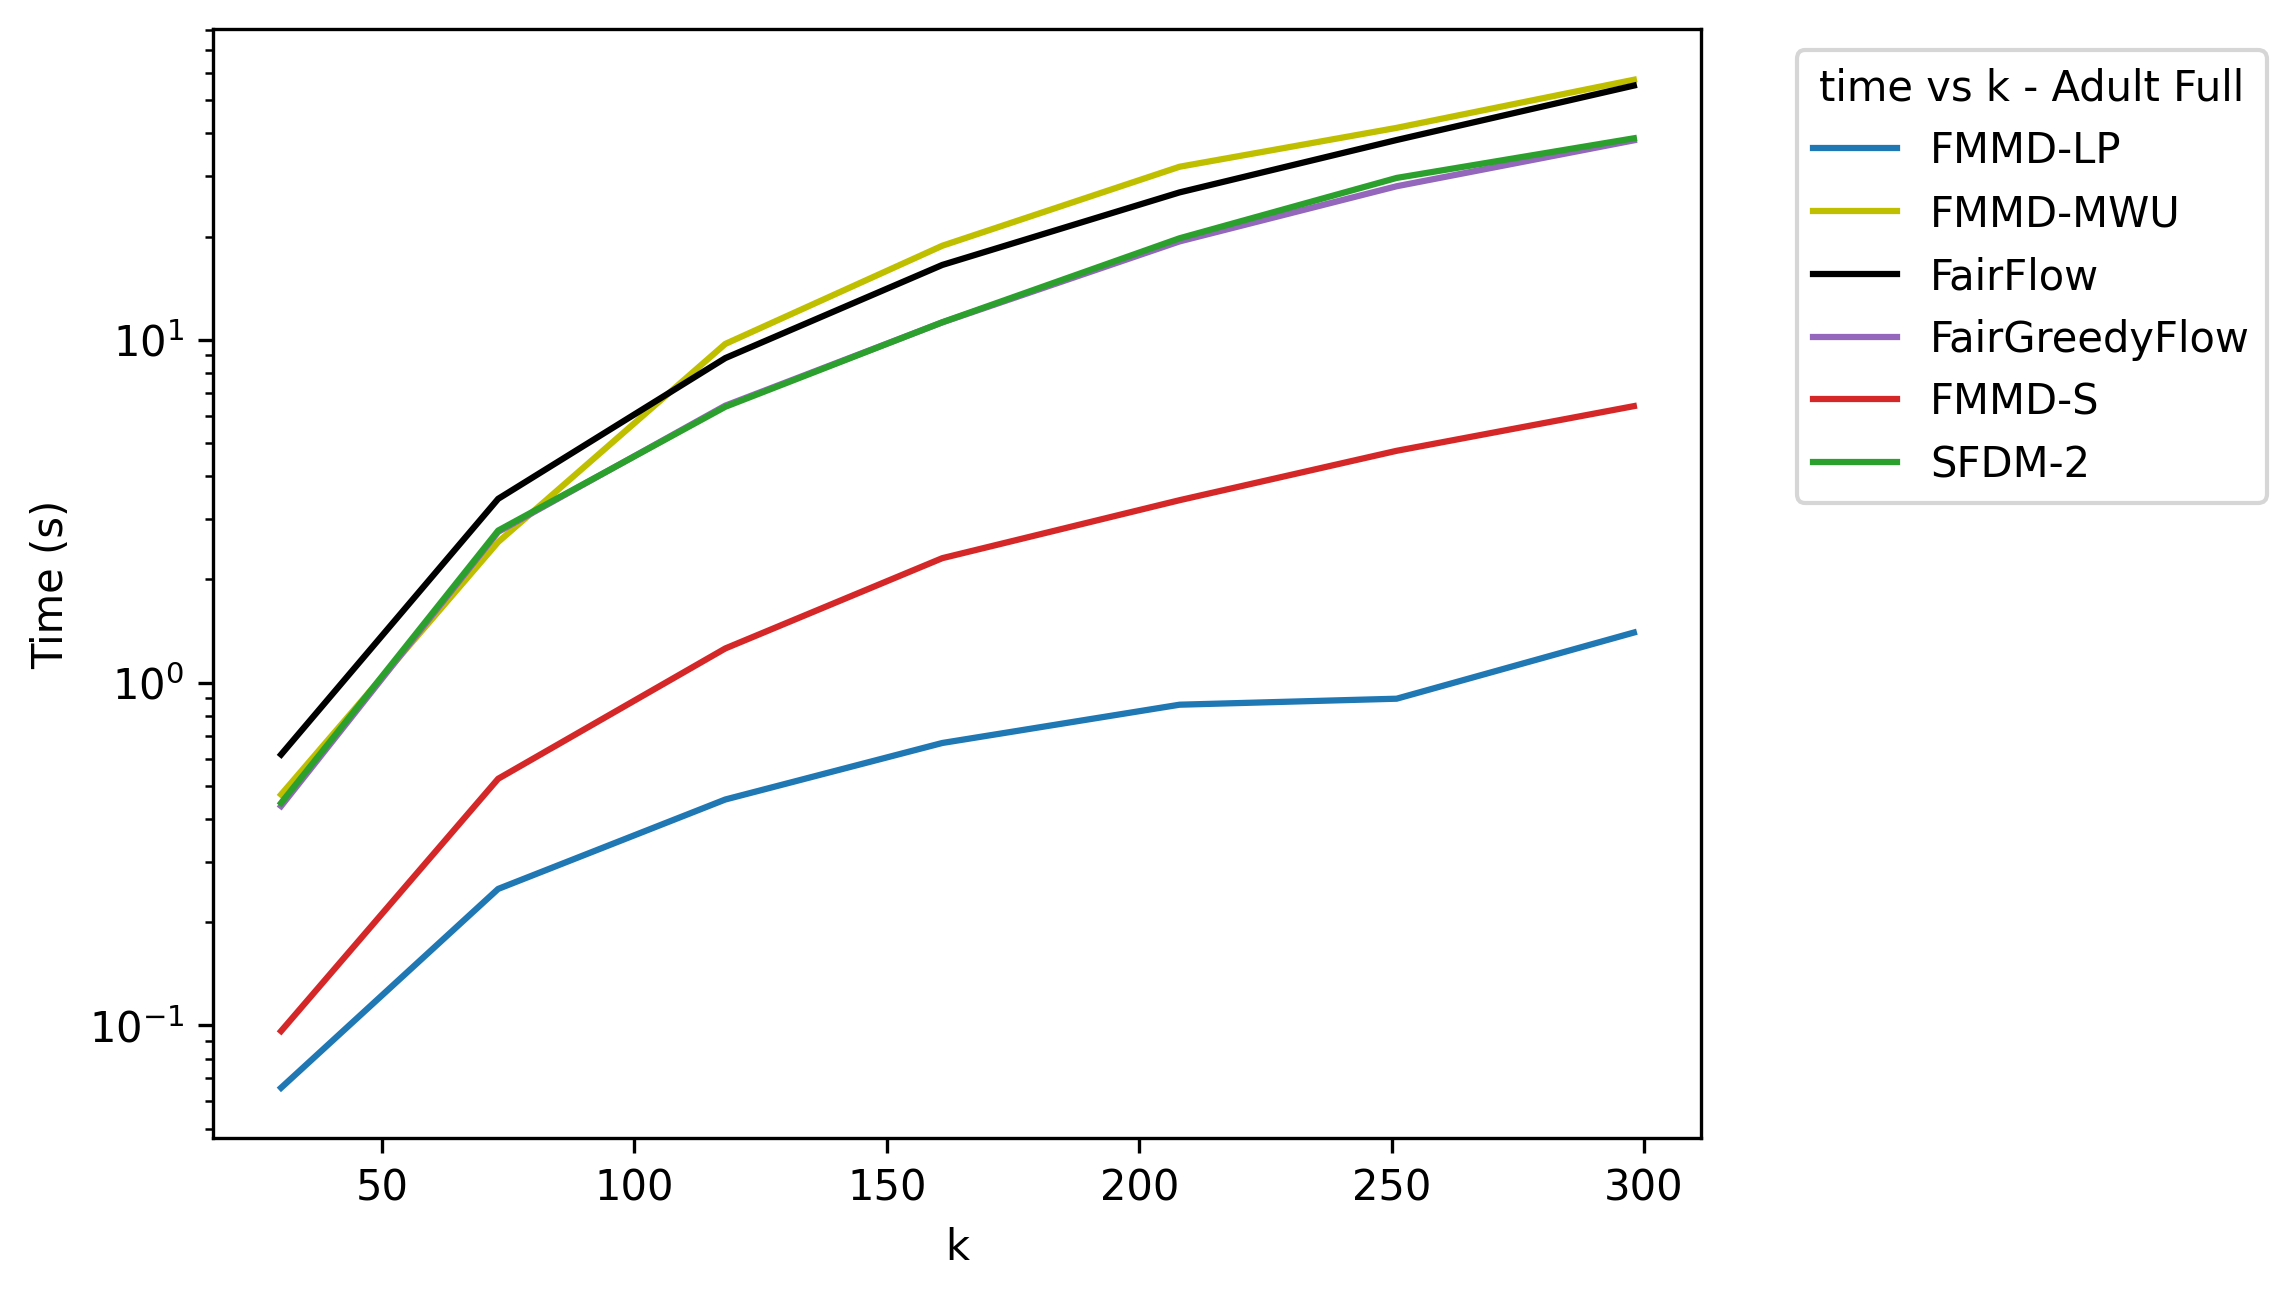
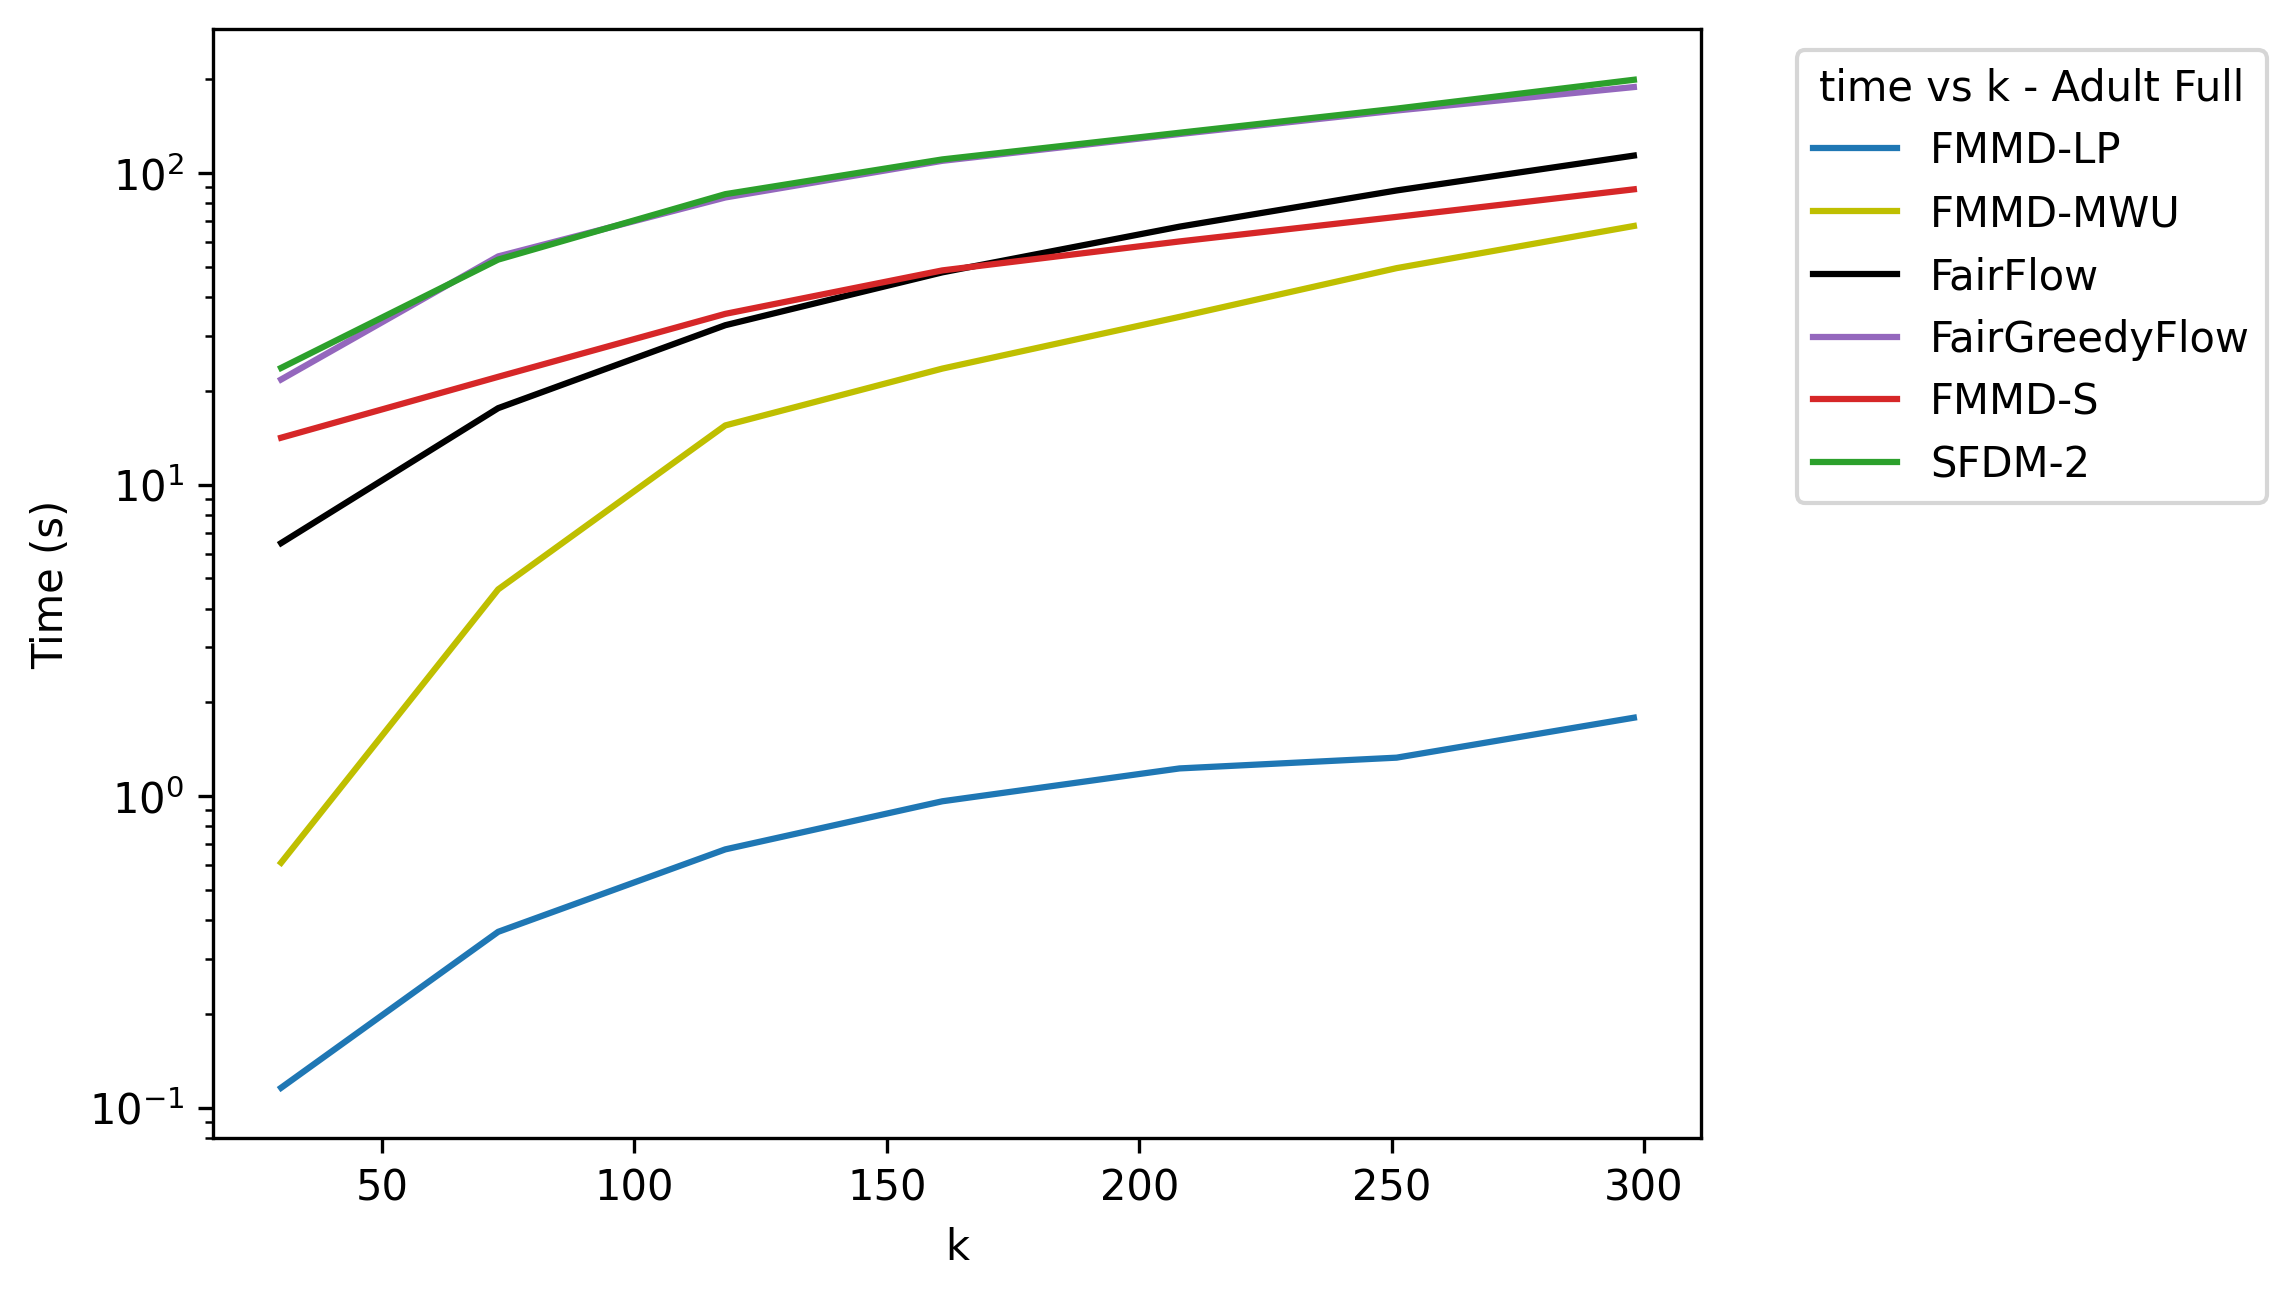
no coreset for fdm and comparison framework

diff --git a/compare_algs_v2.py b/compare_algs_v2.py
@@ -1,0 +1,103 @@
+
+import json
+import utils
+import typing
+import typing as t
+import sys
+import numpy as np
+import numpy.typing as npt
+from collections import defaultdict
+import matplotlib.pyplot as plt
+
+import fdmalgs
+import utils
+import lpsolve
+import multweights_nyoom as multweights
+from coreset import Coreset_FMM
+
+class Dataset:
+
+    def __init__(self, datainfopath: str):
+        """
+        Constructs the dataset object that has the dataset loaded in it.
+        :param datainfopath: path to the dataset files.
+        """
+        self.features = None
+        self.colors = None
+
+        
+        # Read dataset info file
+        with open(datainfopath) as f:
+            datainfo = json.load(f)
+        
+        self.allFields = datainfo['allFields']
+        self.colorFields = datainfo['colorFields']
+        self.featureFields = datainfo['featureFields']
+        self.dim = len(self.featureFields)
+        self.datapath = datainfopath.split('/')[:-1].join('/') + '/' + datainfo['filename']
+
+        # Read the dataset
+        self.colors, self.features = self.read_CSV(self.datapath, self.allFields, self.colorFields, '_', self.featureFields)
+        assert (len(self.colors) == len(self.features))
+        
+    
+    def read_CSV(filename: t.AnyStr, field_names: t.Sequence, color_fields: t.List[t.AnyStr], color_sep: t.AnyStr, feature_fields: t.Set[t.AnyStr]) -> (
+        npt.NDArray[t.AnyStr], npt.NDArray[np.float64]):
+        """read_CSV.
+
+        Reads in a CSV datafile as a list of dictionaries.
+        The datafile should have no header row
+
+        Returns a tuple of the colors of elements and their features
+
+        :param filename: the file to read in
+        :type filename: t.AnyStr
+        :param field_names: the headers of the CSV file, in order
+        :type field_names: t.Sequence
+        :param color_fields: the fields containing the object color; the end "color" will be a tuple of all the colors
+        :type color_fields: t.Set[t.AnyStr]
+        :param color_sep: Separator for joining together multiple color fields
+        :type color_sep: t.AnyStr
+        :param feature_fields: the fields which are numerical data values for the point
+        :type feature_fields: t.Set[t.AnyStr]
+        """
+        from csv import DictReader
+
+        # read csv as a dict with given keys
+        reader = DictReader(open(filename), fieldnames=field_names)
+
+        # return the requested features and colors
+        colors = []
+        features = []
+
+        for row in reader:
+            # this will become a row per color
+            color_list = [row[color_field].strip() for color_field in color_fields]
+            colors.append(color_sep.join(color_list))
+            features.append([float(row[field]) for field in feature_fields])
+
+        # we want these as np arrays
+        colors = np.array(colors)
+        features = np.array(features, dtype=np.float64)
+
+        return colors, features
+
+class Runner:
+    def __init__(self, settingfilepath: str, dataset):
+            """
+            Compares algorithms
+            :param datainfopath: path to the dataset files.
+            """
+            self.features = None
+            self.colors = None
+
+            
+            # Read dataset info file
+            with open(settingfilepath) as f:
+                setting = json.load(f)
+
+if __name__ == "__main__":
+
+    d = Dataset("./datasets/ads/dataset.json")
+
+

diff --git a/compare_algs.py b/compare_algs.py
@@ -6,6 +6,7 @@ import utils
 import lpsolve
 import multweights_nyoom as multweights
 from coreset import Coreset_FMM
+import time
 
 import numpy as np
 def color(alg_name):
@@ -148,6 +149,8 @@ if __name__ == '__main__':
 
         d = len(feature_fields)
         m = len(color_names)
+        coreset_time = 0
+
         coreset = Coreset_FMM(features, colors, k, m, d, coreset_size)
         # can't overwrite our original dataset
         core_features, core_colors = coreset.compute()
@@ -167,17 +170,25 @@ if __name__ == '__main__':
             rep_div_avg = 0
             calc_div_avg = 0
             time_avg = 0
-            num_runs = 10
+            num_runs = 1
             for i in range(0, num_runs):
-                sol, div, time = runner(core_features, core_colors, kis, upper_gamma)
-                rep_div_avg += div
-                calc_div_avg += utils.compute_maxmin_diversity(core_features[sol])
-                time_avg += time
+                if alg == 'FMMD-MWU' or alg == 'FMMD-LP':
+                    sol, div, algtime = runner(core_features, core_colors, kis, upper_gamma)
+                    algtime = algtime + coreset.coreset_compute_time
+                    print(f'coreset compute time: {coreset.coreset_compute_time}')
+                    rep_div_avg += div
+                    # calc_div_avg += utils.compute_maxmin_diversity(core_features[sol])
+                    time_avg += algtime
+                else:
+                    sol, div, algtime = runner(features, colors, kis, upper_gamma)
+                    rep_div_avg += div
+                    # calc_div_avg += utils.compute_maxmin_diversity(core_features[sol])
+                    time_avg += algtime
             rep_div_avg = rep_div_avg/num_runs
-            calc_div_avg = calc_div_avg/num_runs
+            # calc_div_avg = calc_div_avg/num_runs
             time_avg = time_avg/num_runs
-            print(f'{alg} finished in {time}! (diversity of {rep_div_avg}, calculated diversity of {calc_div_avg})')
-
+            print(f'{alg} finished in {time_avg}! (diversity of {rep_div_avg}, calculated diversity of {calc_div_avg})')
+            
             results[alg].append((k_rounded, rep_div_avg, calc_div_avg, time_avg))
 
 
@@ -229,16 +240,16 @@ if __name__ == '__main__':
     plt.close()
 
     # Plot the graph calculated d vs k 
-    plt.clf()
-    for alg in data_per_alg_rd_vs_k:
-        plt.plot(data_per_alg_rd_vs_k[alg]["x"], data_per_alg_rd_vs_k[alg]["y"], color(alg), label=alg)
+    # plt.clf()
+    # for alg in data_per_alg_rd_vs_k:
+    #     plt.plot(data_per_alg_rd_vs_k[alg]["x"], data_per_alg_rd_vs_k[alg]["y"], color(alg), label=alg)
     
-    # plt.yscale("log")
-    plt.legend(title = "d(calcuated) vs k - Adult Full", bbox_to_anchor=(1.05, 1.0), loc='upper left')
-    plt.xlabel("k")
-    plt.ylabel("d")
-    plt.savefig("d_calcualted_vs_k_adult_full", dpi=300, bbox_inches='tight')
+    # # plt.yscale("log")
+    # plt.legend(title = "d(calcuated) vs k - Adult Full", bbox_to_anchor=(1.05, 1.0), loc='upper left')
+    # plt.xlabel("k")
+    # plt.ylabel("d")
+    # plt.savefig("d_calcualted_vs_k_adult_full", dpi=300, bbox_inches='tight')
 
-    plt.close()
+    # plt.close()
 
 

diff --git a/settings/gen.py b/settings/gen.py
@@ -1,0 +1,52 @@
+import json
+
+dictionary = {
+    
+    "setup" : {
+
+        # k goes from 25 to 351 at increments of 50
+        "k" : [25, 351, 50],
+
+        # Size of the coreset is this times k
+        "coreset_size_factor" : 10,
+
+        # number of runs for each algorithm
+        "num_runs": 1
+    },
+    
+    # Algorithms to run with the above setup
+    "algorithms" : {
+
+        # use_precomputed_coreset
+        # 1 -> Yes
+        # 0 -> No
+        # 2 -> Both
+
+
+        "FFMD_LP" : {
+            "use_precomputed_coreset" : 1
+        },
+        "FMMD_MWU" : {
+            "use_precomputed_coreset" : 1
+        },
+        "FairFlow": {
+            "use_precomputed_coreset" : 0
+        },
+        "FairGreedyFlow":{
+            "use_precomputed_coreset" : 0
+        },
+        "FMMD-S":{
+            "use_precomputed_coreset" : 0
+        },
+        "SFDM-2":{
+            "use_precomputed_coreset" : 0
+        }
+    },
+}
+
+# Serializing json
+json_object = json.dumps(dictionary, indent=8)
+ 
+# Writing to sample.json
+with open("dataset.json", "w") as outfile:
+    outfile.write(json_object)

diff --git a/datasets/ads/gen.py b/datasets/ads/gen.py
@@ -1,0 +1,47 @@
+import json
+
+dictionary = {
+
+    "filename" : "adult.data",
+    
+    # Note that these need to be listed in order to what they are in the dataset file
+    "allFields" : [
+
+        "age",
+        "workclass",
+        "fnlwgt",  # what on earth is this one?
+        "education",
+        "education-num",
+        "marital-status",
+        "occupation",
+        "relationship",
+        "race",
+        "sex",
+        "capital-gain",
+        "capital-loss",
+        "hours-per-week",
+        "native-country",
+        "yearly-income",
+    ],
+
+    "colorFields" : [
+        'race', 
+        'sex'
+    ],
+
+    "feature_fields" : [
+        'age', 
+        'capital-gain', 
+        'capital-loss', 
+        'hours-per-week', 
+        'fnlwgt', 
+        'education-num'
+    ],
+}
+
+# Serializing json
+json_object = json.dumps(dictionary, indent=8)
+ 
+# Writing to sample.json
+with open("dataset.json", "w") as outfile:
+    outfile.write(json_object)

diff --git a/coreset.py b/coreset.py
@@ -2,7 +2,7 @@ import numpy as np
 import numpy.typing as npt
 import typing as t
 from tqdm import trange
-
+import time
 class Coreset_FMM:
     """
     Class to compute Fair Max Min Coreset.
@@ -60,6 +60,9 @@ class Coreset_FMM:
 
         # error value for calculated coreset
         self.e = pow(((k*m)/coreset_size),(1/d)) * 8
+
+        self.coreset_compute_time = 0
+        self.gamma_upper_bound_compute_time = 0
     
     def update_coreset_size(self, coreset_size):
         self.coreset_size = coreset_size
@@ -152,7 +155,7 @@ class Coreset_FMM:
     
     # Compute the coreset for FMM
     def compute(self):
-    
+        t0 = time.perf_counter()
         out_colors = []
         out_features = []
 
@@ -174,5 +177,6 @@ class Coreset_FMM:
 
         out_colors = np.concatenate(out_colors)
         out_features = np.concatenate(out_features)
-
+        t1 = time.perf_counter()
+        self.coreset_compute_time = t1- t0
         return out_features, out_colors
